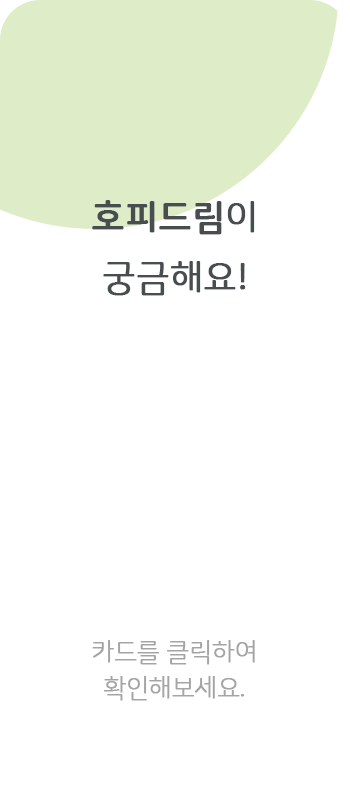
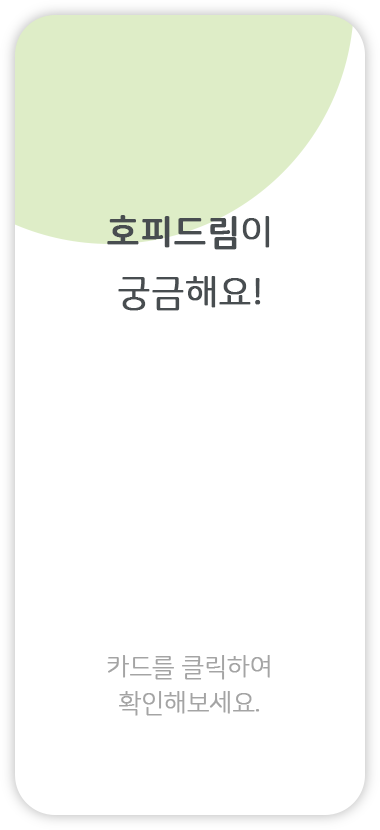
소개 페이지 정렬

diff --git a/css/intro.css b/css/intro.css
@@ -1,4 +1,4 @@
-.intro img {
+/* .intro img {
     width: 100%;
 }
 
@@ -36,4 +36,45 @@
     margin: 5% auto 0 auto;
     background-size: contain;
     background-repeat: no-repeat;
+} */
+
+#intro {
+    width: 100%;
+    height: auto;
+}
+
+.introbg {
+    margin: 0;
+    width: 95vw;
+    height: auto;
+}
+
+.hoppydream1 {
+    z-index: 7;
+    position: absolute;
+    width: 19vw;
+    height: auto;
+    top: 122vh;
+    left: 15vw;
+    filter: drop-shadow(5px 5px 5px #C4C4C4)
+}
+
+.card1 {
+    z-index: 8;
+    position: absolute;
+    width: 19vw;
+    height: auto;
+    top: 122vh;
+    left: 40vw;
+    filter: drop-shadow(5px 5px 5px #C4C4C4)
+}
+
+.howto1 {
+    z-index: 9;
+    position: absolute;
+    width: 19vw;
+    height: auto;
+    top: 122vh;
+    right: 15vw;
+    filter: drop-shadow(5px 5px 5px #C4C4C4)
 }

diff --git a/index.php b/index.php
@@ -62,11 +62,14 @@ $result = mysqli_query($conn,$sql);?>
     <br />
 
     <div class="intro" id="intro">
-        
-        <button class = "col-lg-3 introbtn1"></button>
+    <img src="img/introbg.png" class="introbg" alt="introbg">
+
+    <img src="img/hoppydream1.png" class="hoppydream1" alt="hoppydream1">
+    <img src="img/card1.png" class="card1" alt="card1">
+    <img src="img/howto1.png" class="howto1" alt="howto1">
+    <!--<button class = "col-lg-3 introbtn1"></button>
         <button class = "col-lg-3 introbtn2"></button>
-        <button class = "col-lg-3 introbtn3"></button>
-        
+        <button class = "col-lg-3 introbtn3"></button> -->
     </div>
 
     <div class="map" id="map1"><br><br><br><br>
@@ -75,7 +78,7 @@ $result = mysqli_query($conn,$sql);?>
         <!-- <iframe src="//cyranoch.cafe24.com/piree/p770033/map_ka.php?bo_table=map" width="80%" height="75%"
             class="mapframe" id="map-canvas"></iframe> -->
             <div class="mapp" id="mapp">
-            <div id="map" style="width:100%;height:70%;"></div> <!-- 다른 이미지로 마커 생성하기 -->
+            <div id="map" style="width:100%; height:70%;"></div> <!-- 다른 이미지로 마커 생성하기 -->
             
             <script type="text/javascript" src="//dapi.kakao.com/v2/maps/sdk.js?appkey=e38c15b1993e4d2bd6c705b65a34c6fd"></script>
             <script type="text/javascript" src="marker.js"></script>
